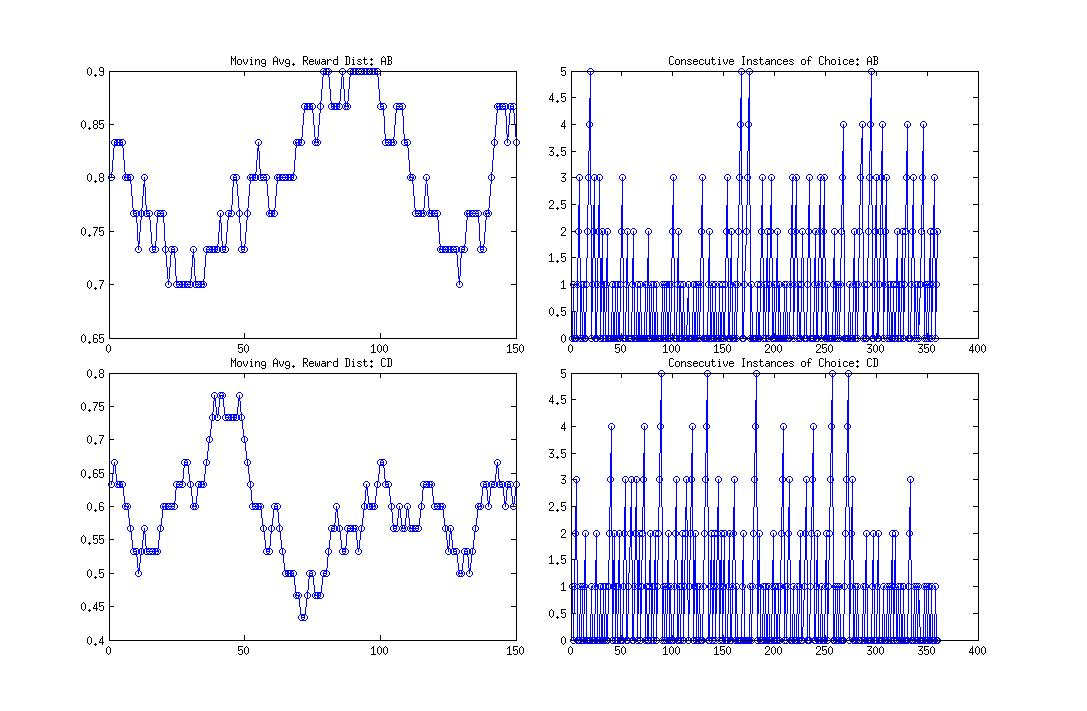
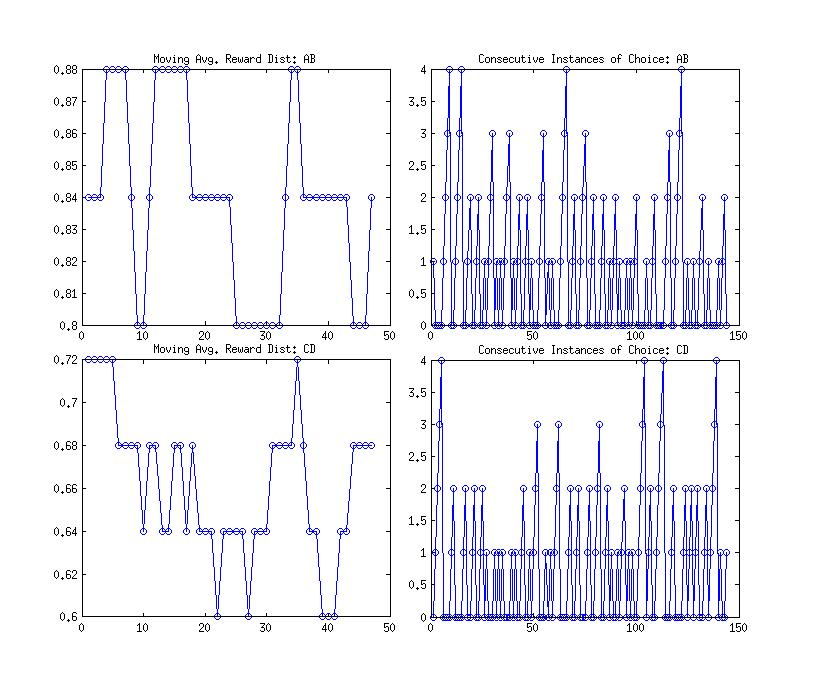
gen_game_data update, and tolerance lowering.

diff --git a/matlab/game_data.js b/matlab/game_data.js
@@ -1,0 +1,2 @@
+var train_set = [{boxes:"AB",yield:true,order:1},{boxes:"CD",yield:true,order:1},{boxes:"CD",yield:false,order:1},{boxes:"CD",yield:true,order:1},{boxes:"CD",yield:true,order:-1},{boxes:"AB",yield:true,order:-1},{boxes:"AB",yield:false,order:-1},{boxes:"AB",yield:true,order:-1},{boxes:"AB",yield:true,order:-1},{boxes:"CD",yield:true,order:-1},{boxes:"CD",yield:true,order:1},{boxes:"AB",yield:true,order:1},{boxes:"AB",yield:true,order:1},{boxes:"AB",yield:true,order:-1},{boxes:"AB",yield:true,order:1},{boxes:"CD",yield:true,order:1},{boxes:"CD",yield:true,order:1},{boxes:"AB",yield:false,order:1},{boxes:"AB",yield:false,order:1},{boxes:"CD",yield:true,order:1},{boxes:"CD",yield:false,order:-1},{boxes:"AB",yield:true,order:1},{boxes:"AB",yield:true,order:-1},{boxes:"CD",yield:true,order:-1},{boxes:"CD",yield:true,order:1},{boxes:"AB",yield:true,order:1},{boxes:"CD",yield:true,order:-1},{boxes:"AB",yield:true,order:1},{boxes:"AB",yield:true,order:-1},{boxes:"AB",yield:true,order:-1},{boxes:"CD",yield:false,order:-1},{boxes:"AB",yield:true,order:1},{boxes:"CD",yield:false,order:-1},{boxes:"AB",yield:true,order:-1},{boxes:"CD",yield:true,order:-1},{boxes:"AB",yield:true,order:1},{boxes:"AB",yield:false,order:-1},{boxes:"AB",yield:true,order:1},{boxes:"CD",yield:false,order:1},{boxes:"AB",yield:true,order:-1},{boxes:"CD",yield:true,order:-1},{boxes:"AB",yield:true,order:1},{boxes:"AB",yield:true,order:-1},{boxes:"CD",yield:true,order:-1},{boxes:"CD",yield:true,order:1},{boxes:"AB",yield:true,order:-1},{boxes:"AB",yield:true,order:1},{boxes:"CD",yield:true,order:-1},{boxes:"AB",yield:true,order:1},{boxes:"CD",yield:false,order:-1},{boxes:"CD",yield:true,order:-1},{boxes:"CD",yield:true,order:-1},{boxes:"AB",yield:true,order:1},{boxes:"AB",yield:true,order:-1},{boxes:"AB",yield:true,order:-1},{boxes:"CD",yield:false,order:1},{boxes:"AB",yield:false,order:-1},{boxes:"CD",yield:true,order:1},{boxes:"AB",yield:false,order:-1},{boxes:"CD",yield:false,order:1},{boxes:"CD",yield:true,order:1},{boxes:"CD",yield:true,order:1},{boxes:"AB",yield:true,order:-1},{boxes:"AB",yield:true,order:1},{boxes:"AB",yield:true,order:1},{boxes:"AB",yield:true,order:1},{boxes:"CD",yield:false,order:-1},{boxes:"CD",yield:true,order:1},{boxes:"AB",yield:true,order:-1},{boxes:"AB",yield:true,order:-1},{boxes:"CD",yield:true,order:1},{boxes:"CD",yield:true,order:1},{boxes:"AB",yield:true,order:1},{boxes:"AB",yield:true,order:1},{boxes:"AB",yield:false,order:1},{boxes:"CD",yield:false,order:1},{boxes:"CD",yield:true,order:1},{boxes:"AB",yield:true,order:-1},{boxes:"AB",yield:true,order:1},{boxes:"CD",yield:true,order:1},{boxes:"CD",yield:false,order:-1},{boxes:"CD",yield:true,order:-1},{boxes:"AB",yield:true,order:-1},{boxes:"AB",yield:false,order:1},{boxes:"CD",yield:true,order:1},{boxes:"CD",yield:false,order:-1},{boxes:"AB",yield:true,order:1},{boxes:"CD",yield:false,order:-1},{boxes:"AB",yield:true,order:1},{boxes:"AB",yield:false,order:1},{boxes:"CD",yield:true,order:1},{boxes:"AB",yield:true,order:-1},{boxes:"CD",yield:false,order:1},{boxes:"CD",yield:true,order:-1},{boxes:"AB",yield:true,order:-1},{boxes:"CD",yield:true,order:-1},{boxes:"AB",yield:true,order:1},{boxes:"CD",yield:false,order:1},{boxes:"AB",yield:true,order:-1},{boxes:"AB",yield:true,order:-1},{boxes:"CD",yield:true,order:1},{boxes:"CD",yield:true,order:-1},{boxes:"CD",yield:true,order:1},{boxes:"CD",yield:false,order:1},{boxes:"AB",yield:true,order:1},{boxes:"CD",yield:false,order:1},{boxes:"CD",yield:true,order:-1},{boxes:"AB",yield:true,order:1},{boxes:"AB",yield:true,order:1},{boxes:"CD",yield:true,order:-1},{boxes:"CD",yield:true,order:-1},{boxes:"CD",yield:true,order:1},{boxes:"CD",yield:true,order:-1},{boxes:"AB",yield:true,order:-1},{boxes:"AB",yield:true,order:-1},{boxes:"AB",yield:false,order:-1},{boxes:"CD",yield:true,order:-1},{boxes:"CD",yield:true,order:-1},{boxes:"AB",yield:true,order:-1},{boxes:"AB",yield:true,order:-1},{boxes:"AB",yield:true,order:-1},{boxes:"AB",yield:true,order:1},{boxes:"CD",yield:true,order:-1},{boxes:"CD",yield:false,order:1},{boxes:"AB",yield:true,order:-1},{boxes:"CD",yield:false,order:-1},{boxes:"CD",yield:false,order:-1},{boxes:"AB",yield:true,order:-1},{boxes:"CD",yield:false,order:1},{boxes:"CD",yield:true,order:-1},{boxes:"AB",yield:false,order:-1},{boxes:"AB",yield:false,order:1},{boxes:"CD",yield:false,order:-1},{boxes:"CD",yield:true,order:1},{boxes:"AB",yield:true,order:1},{boxes:"CD",yield:true,order:-1},{boxes:"CD",yield:true,order:-1},{boxes:"CD",yield:true,order:1},{boxes:"CD",yield:true,order:1},{boxes:"AB",yield:true,order:1},{boxes:"CD",yield:false,order:-1},{boxes:"AB",yield:true,order:1},{boxes:"AB",yield:true,order:-1},{boxes:"CD",yield:false,order:1}];
+var test_set = [{boxes:"AB",yield:true,order:-1},{boxes:"AB",yield:true,order:-1},{boxes:"CD",yield:true,order:-1},{boxes:"BC",yield:true,order:1},{boxes:"BC",yield:true,order:-1},{boxes:"BD",yield:true,order:-1},{boxes:"BC",yield:true,order:-1},{boxes:"AD",yield:true,order:1},{boxes:"AD",yield:true,order:1},{boxes:"BC",yield:true,order:-1},{boxes:"AD",yield:true,order:-1},{boxes:"BC",yield:true,order:1},{boxes:"AC",yield:true,order:-1},{boxes:"BD",yield:true,order:-1},{boxes:"AC",yield:true,order:-1},{boxes:"BC",yield:true,order:1},{boxes:"BD",yield:true,order:-1},{boxes:"BD",yield:true,order:1},{boxes:"BC",yield:true,order:-1},{boxes:"BC",yield:true,order:1},{boxes:"AB",yield:true,order:1},{boxes:"AC",yield:true,order:1},{boxes:"BD",yield:true,order:1},{boxes:"AD",yield:true,order:-1},{boxes:"CD",yield:true,order:1},{boxes:"AB",yield:true,order:1},{boxes:"AB",yield:true,order:1},{boxes:"AB",yield:true,order:-1},{boxes:"CD",yield:true,order:-1},{boxes:"BD",yield:true,order:1},{boxes:"AD",yield:true,order:-1},{boxes:"AC",yield:true,order:-1},{boxes:"BD",yield:true,order:1},{boxes:"AB",yield:true,order:-1},{boxes:"AB",yield:true,order:-1},{boxes:"CD",yield:true,order:1},{boxes:"AD",yield:true,order:1},{boxes:"CD",yield:true,order:-1},{boxes:"AD",yield:true,order:-1},{boxes:"CD",yield:true,order:1},{boxes:"AD",yield:true,order:1},{boxes:"CD",yield:true,order:-1},{boxes:"CD",yield:true,order:1},{boxes:"AC",yield:true,order:1},{boxes:"AC",yield:true,order:1},{boxes:"AB",yield:true,order:1},{boxes:"AC",yield:true,order:-1},{boxes:"AC",yield:true,order:1},{boxes:"CD",yield:true,order:1},{boxes:"BD",yield:true,order:1},{boxes:"AC",yield:true,order:1},{boxes:"AC",yield:true,order:-1},{boxes:"AD",yield:true,order:1},{boxes:"BD",yield:true,order:-1},{boxes:"BC",yield:true,order:-1},{boxes:"AD",yield:true,order:-1},{boxes:"AB",yield:true,order:1},{boxes:"BC",yield:true,order:1},{boxes:"CD",yield:true,order:-1},{boxes:"BD",yield:true,order:-1}]

diff --git a/matlab/gen_game_data.m b/matlab/gen_game_data.m
@@ -1,22 +1,45 @@
 function [ ] = gen_game_data( )
-%GEN_GAME_DATA Summary of this function goes here
-%   Detailed explanation goes here
 
-ab = cell(36,3);
-cd = cell(36,3);
+%-------------------------------------%
+% Control variables for this script:
+%-------------------------------------%
+tolerance  = 0.09;
+window_len = 25;
+max_consec = 4;
+
+target_dist_ab = 5/6; % ie 10/12
+target_dist_cd = 4/6; % ie  8/12
+
+num_min_set_reps = 2;
+data_filename = 'game_data.js';
+%-------------------------------------%
+
+
+% Set up governing combinatorial quantities
+n_pair_box  = 2;
+n_goals     = 3;
+n_pair_goal = nchoosek(n_goals,2);
+prob_lcd    = 6;
+
+n_ab = n_pair_goal *n_pair_box *prob_lcd;
+
+
+% Create pre-randomization training set
+ab = cell(n_ab,3);
+cd = cell(n_ab,3);
 
 order = 1;
-for i = 1:180 % 36*5 which is divisible by 36,8, and 6;
+for i = 1:n_ab
     ab{i,1} = '"AB"';
     cd{i,1} = '"CD"';
     
-    if i <= 144 % 80% of 180
+    if i <= n_ab * target_dist_ab
         ab{i,2} = 'true';
     else
         ab{i,2} = 'false';
     end
     
-    if i <= 108 % 60% of 180
+    if i <= n_ab * target_dist_cd
         cd{i,2} = 'true';
     else
         cd{i,2} = 'false';
@@ -32,35 +55,39 @@ for i = 1:180 % 36*5 which is divisible by 36,8, and 6;
     end
 end
 
-training = [ab ; cd];
+training = repmat([ab;cd],num_min_set_reps,1);
 
-clear ab
-clear bc
 
-keep_going = 1;
-dist_bnd   = 0.2;
-dist_len   = 30;
-max_consec = 5;
-
+% 'Randomize' the training set, but with conformance to control variables
+keep_going  = 1;
 while keep_going
-    perm = randperm(360);
-    training = training(perm,:);
+    
+    % Generate permutation of training set
+    train_len = length(training);
+    perm      = randperm(train_len);
+    training  = training(perm,:);
 
-    [bad_dist,dist_ab,msk] = check_dist(training,dist_len,0.8,dist_bnd,'"AB"');
+    % Check this permutation against balance criteria
+    [bad_dist,dist_ab,msk] = ...
+        check_dist(training,window_len,target_dist_ab,tolerance,'"AB"');
     if bad_dist; continue; end
     
     [bad_cons,cons_ab] = check_cons(msk,max_consec);
     if bad_cons; continue; end
     
-    [bad_dist,dist_cd,msk] = check_dist(training,dist_len,0.6,dist_bnd,'"CD"');
+    [bad_dist,dist_cd,msk] = ...
+        check_dist(training,window_len,target_dist_cd,tolerance,'"CD"');
     if bad_dist; continue; end
     
     [bad_cons,cons_cd] = check_cons(msk,max_consec);
     if bad_cons; continue; end
     
+    % If the checks were passed, don't keep checking permuations.
     keep_going = 0;
 end
 
+
+% Plot the training set characteristics
 subaxis(2,2,1)
 plot(dist_ab,'-o')
 title('Moving Avg. Reward Dist: AB')
@@ -77,6 +104,8 @@ subaxis(2,2,4)
 plot(cons_cd,'-o')
 title('Consecutive Instances of Choice: CD')
 
+
+% Create the test set
 test = { ...
  '"AB"', 'true', 1; ...
  '"AC"', 'true', 1; ...
@@ -97,28 +126,37 @@ test = repmat(test,5,1);
 perm = randperm(5*2*6);
 test = test(perm,:);
 
-fileID = fopen('game_data.js','w');
+% ToDo: Need to balance the test set in ways similar to training set
+
+
+
+
+% Write the data set to a game_data.js file
+fileID = fopen(data_filename,'w');
 fprintf(fileID,'%s','var train_set = [');
-for i=1:360
+
+train_len = length(training);
+for i=1:train_len
     object_str = [          '{boxes:'         training{i,1} ','];
     object_str = [object_str 'yield:'         training{i,2}  ','];
     object_str = [object_str 'order:' num2str(training{i,3}) '}'];
     fprintf(fileID,'%s',object_str);
     
-    if i < 360
+    if i < train_len
         fprintf(fileID,'%s',',');
     end
 end
 fprintf(fileID,'%s\r\n','];');
 fprintf(fileID,'%s','var test_set = [');
 
-for i=1:5*2*6
+test_len = length(test);
+for i=1:test_len
     object_str = [          '{boxes:'         test{i,1} ','];
     object_str = [object_str 'yield:'         test{i,2}  ','];
     object_str = [object_str 'order:' num2str(test{i,3}) '}'];
     fprintf(fileID,'%s',object_str);
     
-    if i < 5*2*6
+    if i < test_len
         fprintf(fileID,'%s',',');
     end
 end
@@ -128,31 +166,27 @@ fclose(fileID);
 end
 
 
-function [bad_dist,big_dist,mask_str] = check_dist(training,dist_len,dist_aim,dist_bnd,string)
-    bad_dist = 0;
-    big_dist = NaN(1,180-dist_len);
-   
-    mask_str  = strcmp(training(:,1),string);
-    low_ind  = find(mask_str == 1,1);
-    high_ind = find(cumsum(mask_str) == dist_len,1);
+function [bad_dist_flg,rew_dist,mask_str] = check_dist(training,dist_len,dist_aim,dist_bnd,string)
     
-    i = 0;
-    for i=1:180-dist_len
-        %i = i + 1;
-        recent_mask_str = mask_str(low_ind:high_ind);
-        recent_training = training(low_ind:high_ind,:);
-        recent_str      = recent_training(recent_mask_str,:);
-        mask_true       = strcmp(recent_str(:,2),'true');
-        dist            = sum(mask_true)/dist_len;
-        big_dist(i)     = dist;
+    bad_dist_flg = 0;
+    
+    mask_str = strcmp(training(:,1),string);
+    subset   = training(mask_str,:);
+    set_len  = sum(mask_str);
+    rew_dist = NaN(1,set_len-dist_len);
+    
+    % Cycle through the training set, masking out a windows and checking if
+    % they have distributions within the proper bounds
+    for i=1:set_len-dist_len
+        windowed    = subset(i:i+dist_len-1,:);
+        mask_true   = strcmp(windowed(:,2),'true');
+        dist        = sum(mask_true)/dist_len;
+        rew_dist(i) = dist;
         
         if abs(dist-dist_aim) > dist_bnd
-            bad_dist = 1;
+            bad_dist_flg = 1;
             break
         end
-        
-        low_ind = find(mask_str(low_ind+1:end) == 1,1) + low_ind;
-        high_ind = find(cumsum(mask_str(low_ind:end,:)) == dist_len,1) + low_ind - 1;
     end
 end
 
@@ -160,9 +194,10 @@ function [bad_cons,big_cons] = check_cons(mask,max_cons)
 
     cons     = 0;
     bad_cons = 0;
-    big_cons = NaN(1,360);
+    mask_len = length(mask);
+    big_cons = NaN(1,mask_len);
     
-   for i = 1:360
+   for i = 1:mask_len
        if mask(i) == 1
            cons = cons + 1;
        else
